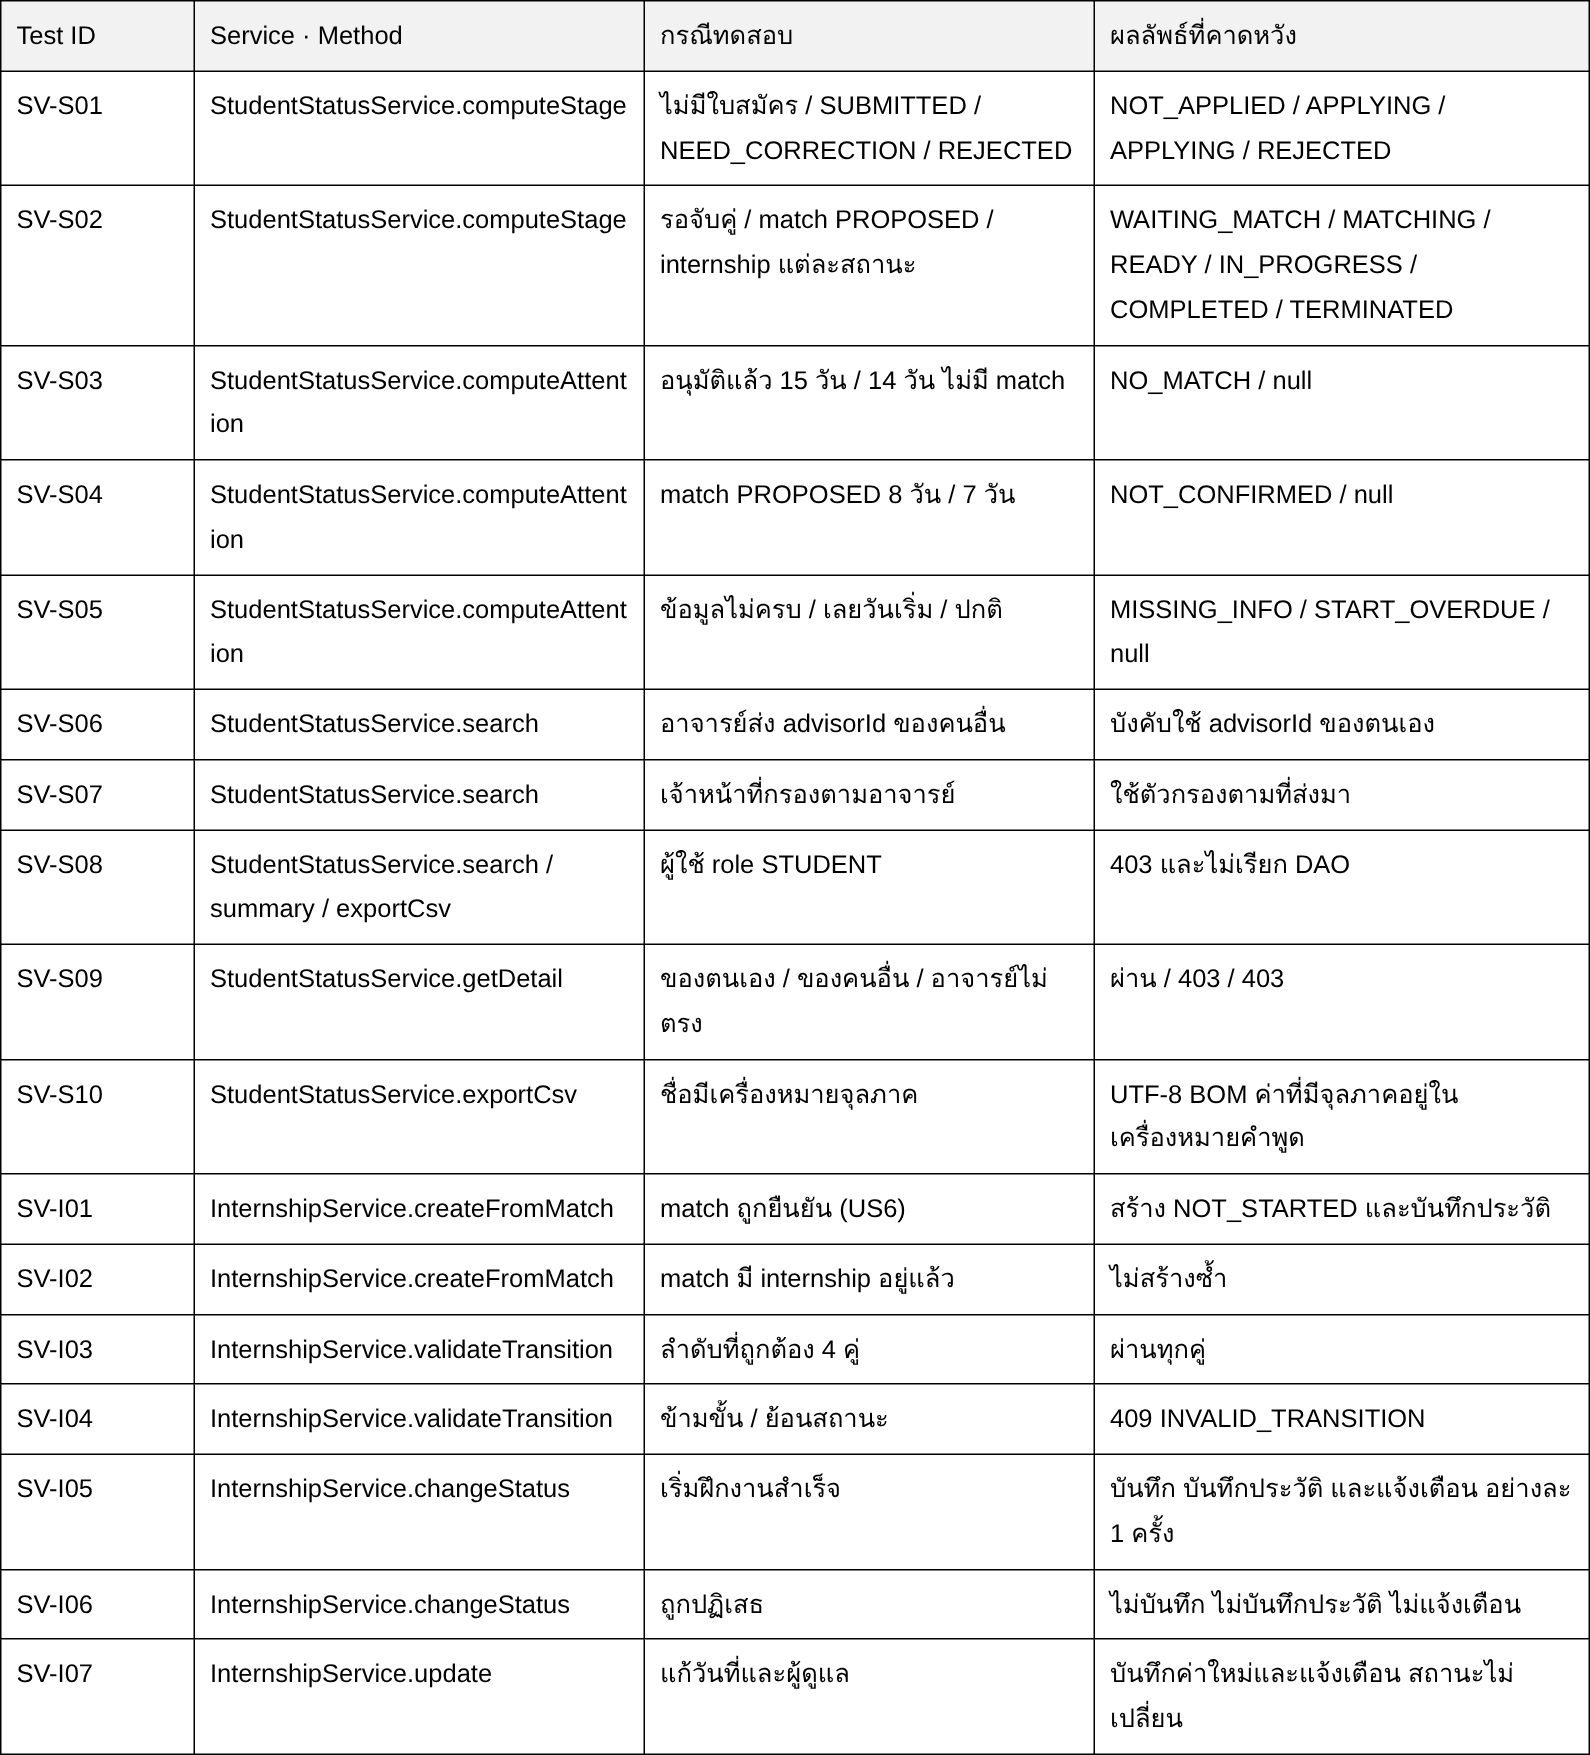
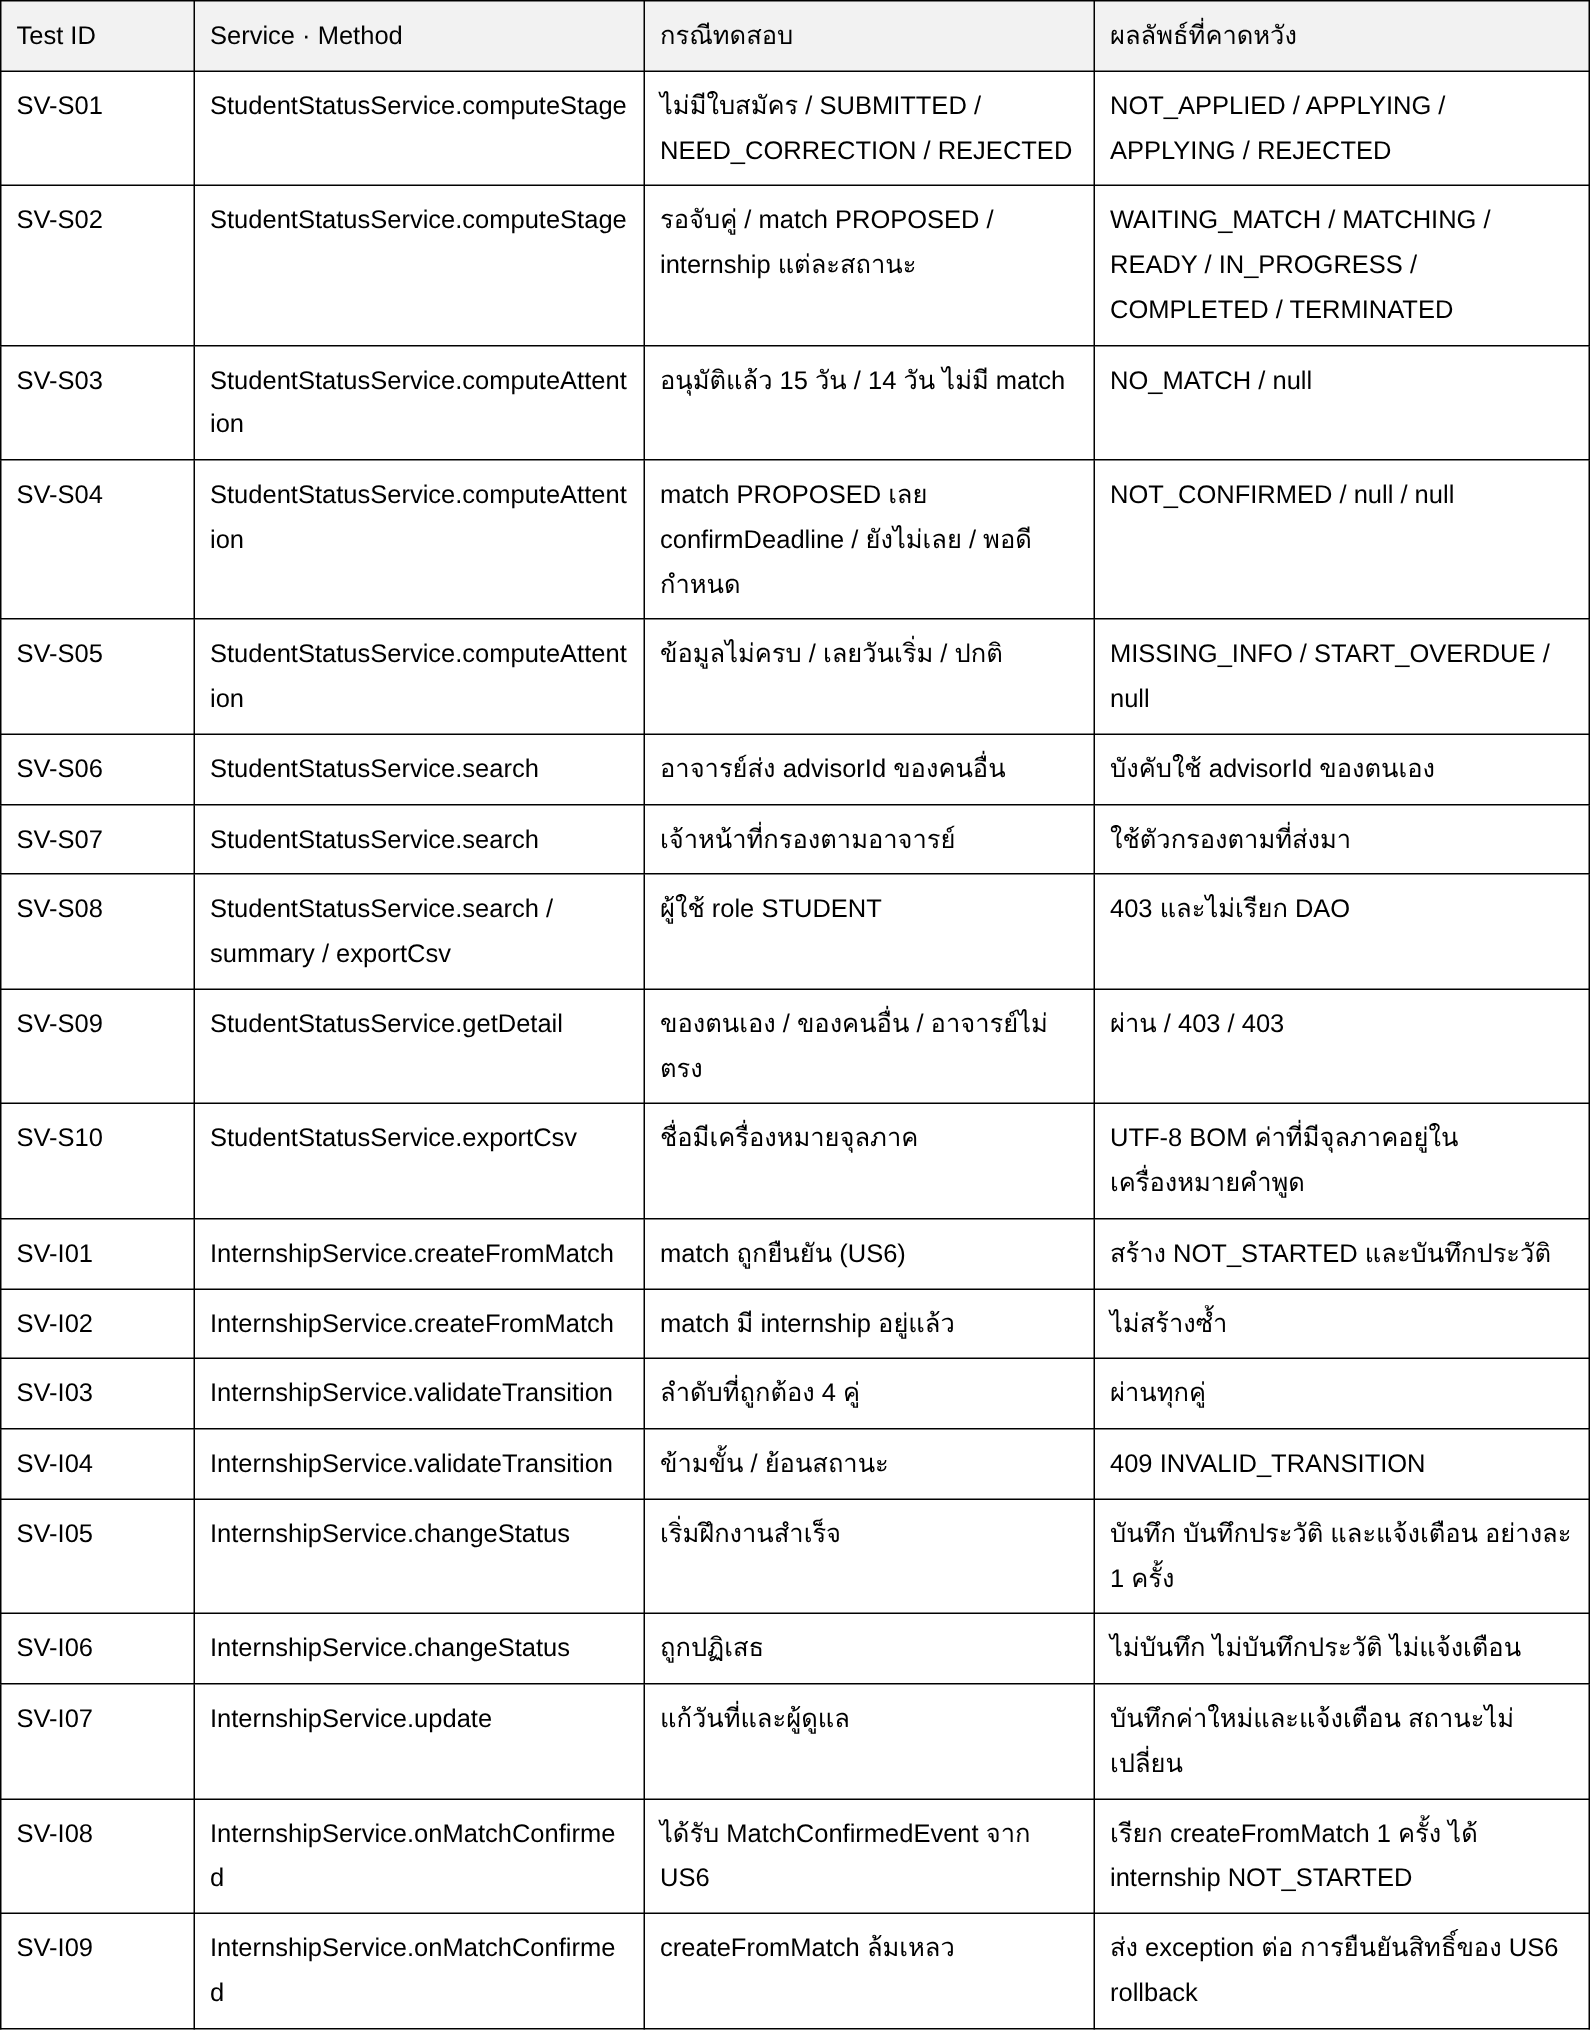
U7:T3 :align with US6 T2 design

diff --git a/.doc/UserStory/U7/T3.md b/.doc/UserStory/U7/T3.md
@@ -28,7 +28,7 @@ Test case หลักของ U7 (ใช้อ้างอิงใน Task3, 
 |---|---|
 | InternshipStage | `NOT_APPLIED` · `APPLYING` · `WAITING_MATCH` · `MATCHING` · `READY` · `IN_PROGRESS` · `COMPLETED` · `REJECTED` · `TERMINATED` |
 | วิธีคำนวณ stage | ไม่มีใบสมัคร = NOT_APPLIED · ใบสมัคร DRAFT–UNDER_REVIEW (รวม NEED_CORRECTION) = APPLYING · ใบสมัคร REJECTED = REJECTED · APPROVED ไม่มี match = WAITING_MATCH · match PROPOSED = MATCHING · internship NOT_STARTED = READY · IN_PROGRESS = IN_PROGRESS · COMPLETED = COMPLETED · TERMINATED = TERMINATED |
-| Attention | `NO_MATCH` อนุมัติแล้วเกิน 14 วันยังไม่ได้จับคู่ · `NOT_CONFIRMED` match PROPOSED เกิน 7 วัน · `MISSING_INFO` ข้อมูลฝึกงานไม่ครบ · `START_OVERDUE` เลยวันเริ่มแต่ยังไม่เริ่ม · ไม่มีปัญหา = `null` |
+| Attention | `NO_MATCH` อนุมัติแล้วเกิน 14 วันยังไม่ได้จับคู่ · `NOT_CONFIRMED` match PROPOSED และเลย `confirmDeadline` ของรอบแล้ว (US6 ข้อตกลง S9) · `MISSING_INFO` ข้อมูลฝึกงานไม่ครบ · `START_OVERDUE` เลยวันเริ่มแต่ยังไม่เริ่ม · ไม่มีปัญหา = `null` |
 | InternshipStatus | `NOT_STARTED` → `IN_PROGRESS` → `COMPLETED` · ยุติก่อนกำหนด = `TERMINATED` (จาก NOT_STARTED หรือ IN_PROGRESS) |
 | HistoryType | `APPLICATION` · `MATCH` · `INTERNSHIP` |
 
@@ -145,7 +145,7 @@ Unit Test Cases หน้าสถานะของฉัน (`my-status.html`)
 | SV-S01 | `computeStage` | TC3 | ไม่มีใบสมัคร · ใบสมัคร SUBMITTED · NEED_CORRECTION · REJECTED | NOT_APPLIED · APPLYING · APPLYING · REJECTED |
 | SV-S02 | `computeStage` | TC3 | APPROVED ไม่มี match · match PROPOSED · internship NOT_STARTED · IN_PROGRESS · COMPLETED · TERMINATED | WAITING_MATCH · MATCHING · READY · IN_PROGRESS · COMPLETED · TERMINATED |
 | SV-S03 | `computeAttention` | TC3 | APPROVED เมื่อ D−15 ไม่มี match · D−14 ไม่มี match | NO_MATCH · null (ครบ 14 วันพอดียังไม่เตือน ต้องเกิน 14 วัน) |
-| SV-S04 | `computeAttention` | TC3 | match PROPOSED เมื่อ D−8 · D−7 | NOT_CONFIRMED · null |
+| SV-S04 | `computeAttention` | TC3 | match PROPOSED · `confirmDeadline` = D−1 วัน (เลยแล้ว) · = D+1 วัน · = เวลาเดียวกับ Clock พอดี | NOT_CONFIRMED · null · null (ต้องเลยกำหนดก่อนจึงเตือน) · ใช้ `MatchResponse.confirmDeadline` ของ US6 ไม่นับจำนวนวัน |
 | SV-S05 | `computeAttention` | TC3 | internship NOT_STARTED `infoComplete = false` · startDate D−1 ยัง NOT_STARTED · ข้อมูลครบ startDate D+3 | MISSING_INFO · START_OVERDUE · null |
 | SV-S06 | `search` | TC2 | อาจารย์ id 2 ส่ง `filter.advisorId = 99` | เรียก `StudentStatusQueryDao.search` ด้วย `advisorId = 2` (บังคับเป็นของตนเอง) |
 | SV-S07 | `search` | TC1 | เจ้าหน้าที่ส่ง `filter.advisorId = 2` | ใช้ตัวกรองตามที่ส่งมา `advisorId = 2` |
@@ -164,6 +164,8 @@ Unit Test Cases หน้าสถานะของฉัน (`my-status.html`)
 | SV-I05 | `changeStatus` | TC7 | start สำเร็จ | `InternshipDao.save` status IN_PROGRESS, updatedBy = เจ้าหน้าที่ · `StatusHistoryService.record(studentId, INTERNSHIP, NOT_STARTED, IN_PROGRESS, officerId, null)` 1 ครั้ง · `NotificationService.notifyInternshipStatusChanged` 1 ครั้ง |
 | SV-I06 | `changeStatus` | TC7 | ถูกปฏิเสธ (INVALID_TRANSITION / MISSING_INFO) | ไม่เรียก save, record และ notify |
 | SV-I07 | `update` | TC6 | แก้วันที่และผู้ดูแลสำเร็จ | save ค่าใหม่ · เรียก `notifyInternshipUpdated` · สถานะไม่เปลี่ยน |
+| SV-I08 | `onMatchConfirmed` (`@EventListener`) | TC7 | ได้รับ `MatchConfirmedEvent(matchId 31, applicationId 50, positionId 7, roundId 1)` จาก US6 | เรียก `createFromMatch(31)` 1 ครั้ง · ได้ Internship NOT_STARTED ผูก match 31 (US6 ข้อตกลง S8) |
+| SV-I09 | `onMatchConfirmed` (`@EventListener`) | TC7 | `createFromMatch` โยน exception (เช่น ไม่พบ match) | exception ส่งต่อออกไปไม่ถูกจับไว้ · ทำให้การยืนยันสิทธิ์ของ US6 rollback (ทำงานใน transaction เดียวกัน) |
 
 สรุปความครอบคลุม
 -
@@ -175,10 +177,10 @@ Unit Test Cases หน้าสถานะของฉัน (`my-status.html`)
 | TC4 | API-S06, API-S08, API-I01 |
 | TC5 | API-S07 |
 | TC6 | API-I02–I04, SV-I07 |
-| TC7 | API-I05–I07, SV-I01–I06 |
+| TC7 | API-I05–I07, SV-I01–I06, SV-I08, SV-I09 |
 | TC8 | API-S04, API-S05, SV-S10 |
 
-ทั้งหมด 36 test ใน 4 ไฟล์ (Controller 19 · Service 17)
+ทั้งหมด 38 test ใน 4 ไฟล์ (Controller 19 · Service 19)
 
 ```powershell
 cd demo
@@ -255,7 +257,9 @@ cd demo
 
 หมายเหตุ
 -
-- รวมทั้งหมด 73 test case: UI 21 · API 19 · Service 17 · DAO 16
+- รวมทั้งหมด 75 test case: UI 21 · API 19 · Service 19 · DAO 16
+- ปรับตาม T2 ของ US6 (13 พ.ย.): ข้อตกลง S8 · US6 ส่ง `MatchConfirmedEvent` เมื่อนักศึกษายืนยันสิทธิ์ US7 รับด้วย `@EventListener` แล้วสร้าง internship (SV-I08, SV-I09) · ข้อตกลง S9 · ป้าย `NOT_CONFIRMED` ใช้ `confirmDeadline` ของรอบ (SV-S04)
+- ชื่อตาราง: ER ของ US6 ใช้ `internships` (พหูพจน์ เหมือนตารางอื่นในโค้ด เช่น `applications`, `companies`) แต่ T2 ของ US7 ใช้ `internship` ควรแก้ T2 ของ US7 เป็น `internships`
 - ER Diagram ใน Task2 ใช้ role `OFFICER` แต่โค้ดของทีม (US1–US5) ใช้ `STAFF` · เอกสารนี้ใช้ `STAFF` ตามโค้ด ควรแก้ ER ให้ตรงกัน
 - รูปแบบ error ใช้ `{code, message}` เหมือน US1–US5 (`ApiExceptionHandler`)
 - ผลรันจริงของแต่ละส่วนจะเพิ่มใน Task4 หลังเขียนโค้ด (เหมือน U5)
